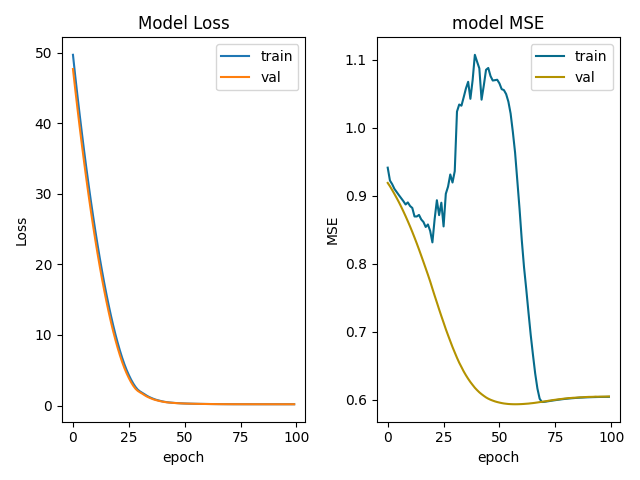
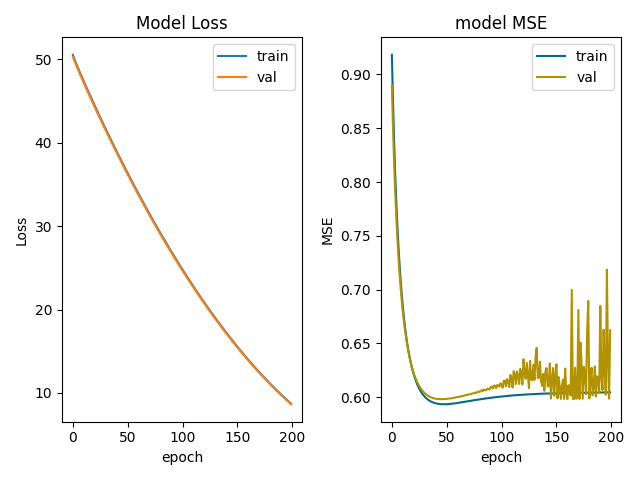
logarithmic MSE

diff --git a/Configs/configs.py b/Configs/configs.py
@@ -2,14 +2,14 @@
 
 CFG = {
     "dataset": {
-        "path": "C:/Users/pires/PycharmProjects/IPSA/Aero5/windTurbine/Ressources/Turbine_Data_project.csv",
+        "path": "D:/PycharmProjects/IPSA/Aero5/windTurbine/Ressources/Turbine_Data_project.csv",
         "train_size": 0.8,
         "test_size": 0.5
     },
     "fit": {
         "batchSize": 16384,
-        "epochs": 100,
-        "loss": 'mean_absolute_error',
+        "epochs": 200,
+        "loss": 'mean_squared_logarithmic_error',
         "learningRate": 0.001,
         "metrics": ["mse"]
     },
@@ -23,6 +23,6 @@ CFG = {
         "layer_kernel_regularizer": [0.01, 0.01, 0.01, 0.01, 0.01, 0.01],
         "layer_activity_regularizer": [0.01, 0.01, 0.01, 0.01, 0.01, 0.01],
         "saveDirectoryPath": 'savings',
-        "testName": 'mean_absolute_error2'
+        "testName": 'mean_squared_logarithmic_error'
     }
 }

diff --git a/savings/mean_squared_logarithmic_error/configs.py b/savings/mean_squared_logarithmic_error/configs.py
@@ -2,13 +2,13 @@
 
 CFG = {
     "dataset": {
-        "path": "C:/Users/pires/PycharmProjects/IPSA/Aero5/windTurbine/Ressources/Turbine_Data_project.csv",
+        "path": "D:/PycharmProjects/IPSA/Aero5/windTurbine/Ressources/Turbine_Data_project.csv",
         "train_size": 0.8,
         "test_size": 0.5
     },
     "fit": {
         "batchSize": 16384,
-        "epochs": 100,
+        "epochs": 200,
         "loss": 'mean_squared_logarithmic_error',
         "learningRate": 0.001,
         "metrics": ["mse"]

diff --git a/Model/model.py b/Model/model.py
@@ -85,7 +85,7 @@ class Model(dataset.Dataset):
         batchSize = config['fit']['batchSize']
         print("Evaluate on test data")
         results = self._model.evaluate(self._X_test, self._X_test, batch_size=batchSize)
-        print("test loss, test acc:", results)
+        print("test loss, test MSE:", results)
 
         # plot loss during training
         fig = plt.figure()
